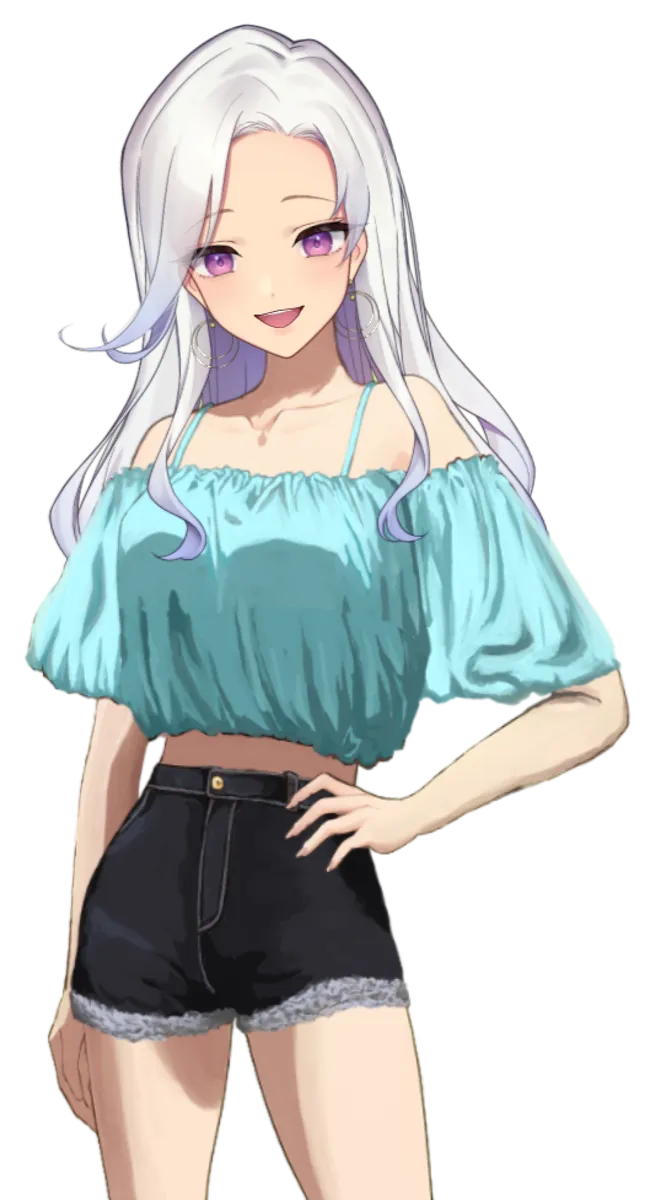
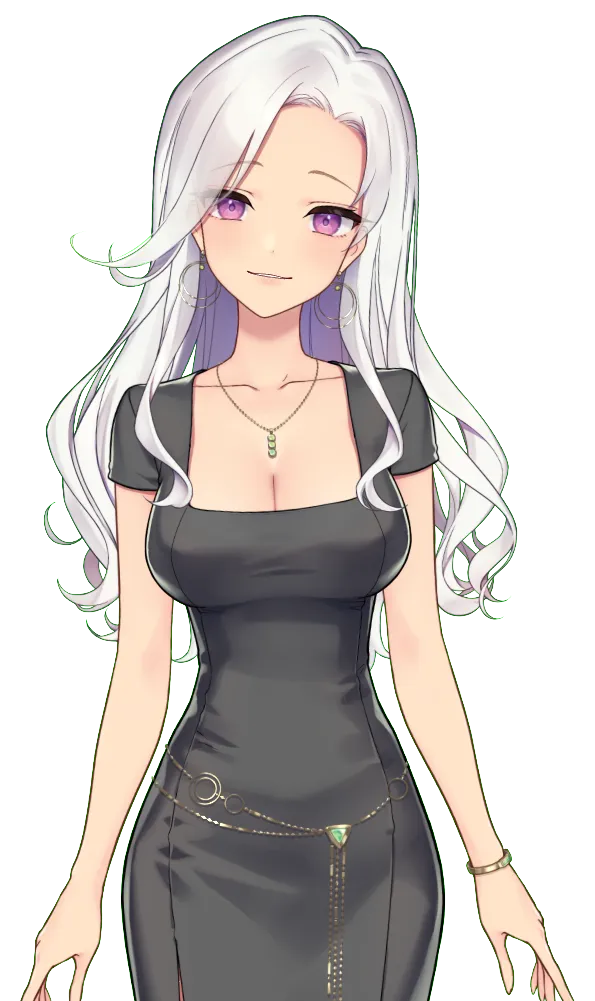
deploy: CastShowcase 自動デプロイ BackStage-unei/bs-cast-showcase@923aedfc0178f296cab782b5549c7041c6e96a65

diff --git a/casts-data.js b/casts-data.js
@@ -61,9 +61,9 @@ window.SHOWCASE = {
       "x_url": "https://x.com/TamakiYouBS",
       "portrait": "",
       "portraits": [
-        "assets/241_KV03.webp",
         "assets/241_KV04.webp",
-        "assets/241_KV05.webp"
+        "assets/241_KV05.webp",
+        "assets/241_KV03.webp"
       ],
       "icon": "assets/241_icon.webp",
       "tags": [
@@ -92,7 +92,7 @@ window.SHOWCASE = {
       "profile_url": "https://back-stage.onelink.me/7z4p?pid=backstage_cast&deep_link_value=https://back-stage.app/casts/241&af_dp=jp.vic-inc.app.back-stage://&af_force_deeplink=true",
       "birth_month": "3月",
       "call_category": "ドリーマー",
-      "accent_color": "#63e1ee"
+      "accent_color": "#ee7863"
     },
     {
       "cast_id": 296,
